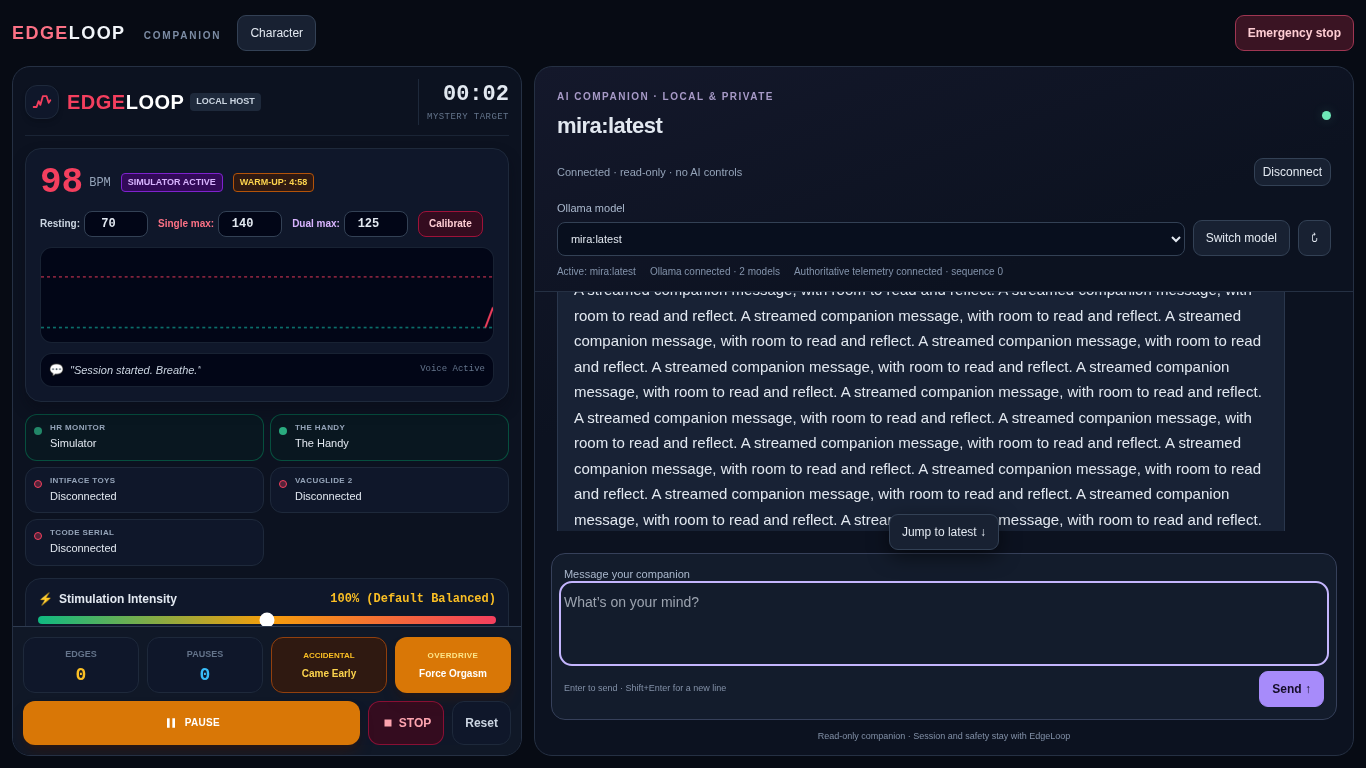
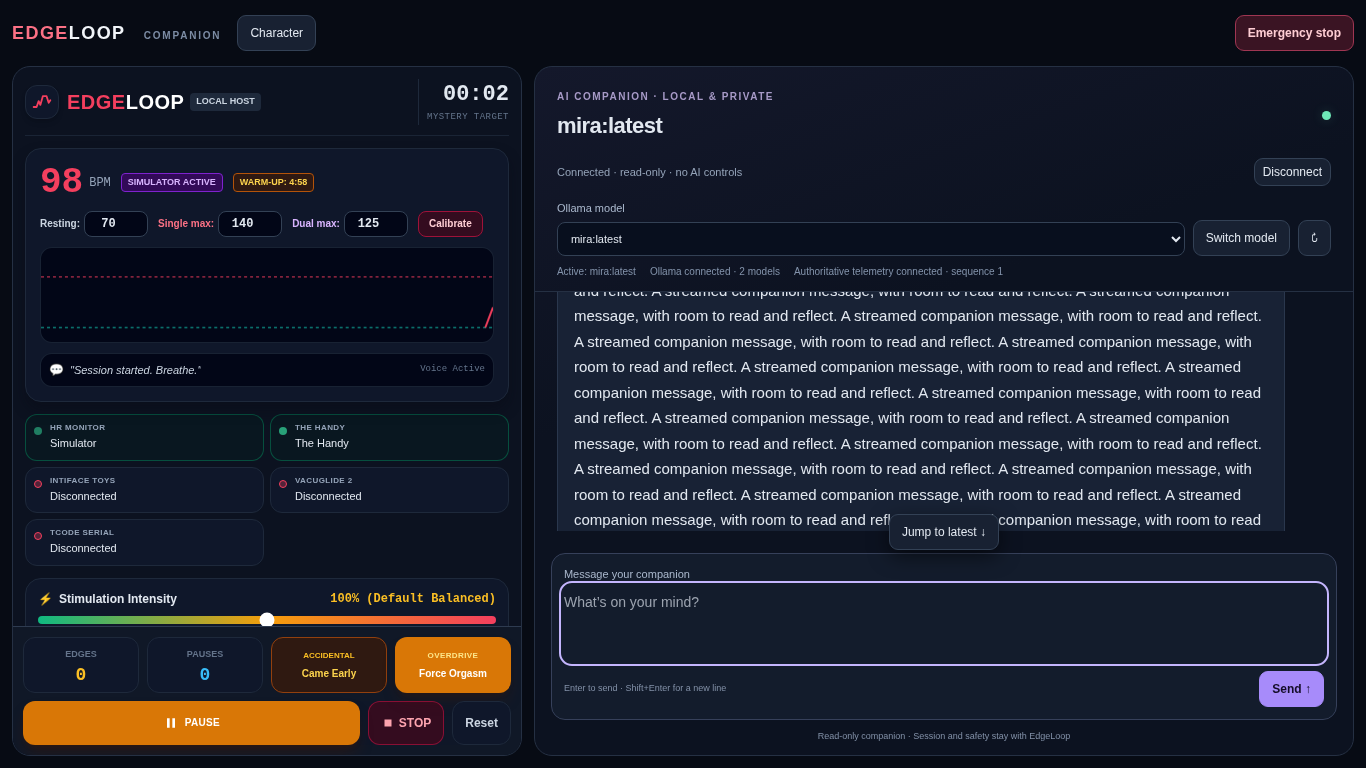
Fix idle AI telemetry heartbeat after live Mira acceptance

Changed region(s): [[0.4305, 0.375, 0.9224, 0.6875]]

diff --git a/src/js/ai/companion.js b/src/js/ai/companion.js
@@ -3,7 +3,7 @@ import {Capture} from './snapshot.js';
 import {ReadOnlyConnection} from './connection.js';
 import {CharacterPresentation} from './character.js';
 import {mountLayout} from './layout.js';
-export function mountCompanion() {
+export function mountCompanion({refreshObservation=()=>{}}={}) {
     const capture=new Capture();
     const panel=document.createElement('section');panel.id='ai-companion';panel.dataset.paired='false';panel.setAttribute('aria-label','AI conversation');
     // Static markup only. Server and model text is always assigned with textContent.
@@ -72,6 +72,8 @@ export function mountCompanion() {
     el('chat').onsubmit=e=>{e.preventDefault();if(!selected||pending)return;
         const text=el('text').value.trim();if(text&&connection.send({version:1,type:'chat',model:selected,text})){follow=true;line('user',text);el('text').value='';error('');busy(true,'Waiting for companion…');}};
     el('text').onkeydown=e=>{if(e.key==='Enter'&&!e.shiftKey&&!e.isComposing){e.preventDefault();el('chat').requestSubmit();}};
-    window.addEventListener('pagehide',()=>connection.disconnect());
+    // Original idle/paused sessions need no engine ticks. Refresh only the read-only projection.
+    const observationTimer=setInterval(()=>{if(connection.epoch){try{refreshObservation();}catch{ /* Optional AI stays isolated. */ }}},1000);
+    window.addEventListener('pagehide',()=>{clearInterval(observationTimer);connection.disconnect();});
     return (state,devices)=>connection.observe(capture.project(state,devices));
 }

diff --git a/src/js/app.js b/src/js/app.js
@@ -5192,16 +5192,20 @@ function renderRemoteHostSettings(data) {
     if (holdInput && data.edgeHoldPercent !== undefined) holdInput.value = data.edgeHoldPercent;
 }
 
-function syncTelemetry() {
+function syncAiObservation(readiness = hardwareReadiness()) {
     if (isRemotePage) return;
-    const readiness = hardwareReadiness();
     // Optional observation only; failure never changes the original control path.
     try {
         aiObservation?.(state, { simulated_hr: state.simEngaged, hr_ready: readiness.hrReady,
             toy_ready: readiness.toyReady, ble: isBleConnected(), handy: handyConnected,
             intiface: isIntifaceConnected(), tcode: isTCodeConnected(), vacuglide: isVacuglideConnected() });
     } catch { /* AI is optional; the original session continues independently. */ }
+}
 
+function syncTelemetry() {
+    if (isRemotePage) return;
+    const readiness = hardwareReadiness();
+    syncAiObservation(readiness);
     broadcastPeerTelemetry({
         type: 'TELEMETRY',
         hr: state.hrCurrent,
@@ -5333,6 +5337,6 @@ if (!isRemotePage) maybeShowFirstRunWizard();
 // F2 extension is loaded independently; backend absence cannot block app boot.
 var aiObservation = null;
 if (!isRemotePage) import('./ai/companion.js').then(({ mountCompanion }) => {
-    aiObservation = mountCompanion();
+    aiObservation = mountCompanion({refreshObservation: syncAiObservation});
     syncTelemetry();
 }).catch(() => {});

diff --git a/src/js/ai/connection.js b/src/js/ai/connection.js
@@ -2,7 +2,7 @@
 // Client sends observations/chat only. Server replies never dispatch controls.
 export class ReadOnlyConnection {
     constructor({WebSocketImpl=globalThis.WebSocket,uuid=()=>crypto.randomUUID(),now=()=>Date.now(),
-        schedule=setTimeout,cancel=clearTimeout,onMessage=()=>{},onStatus=()=>{}}={}) {
+        schedule=(fn,ms)=>setTimeout(fn,ms),cancel=id=>clearTimeout(id),onMessage=()=>{},onStatus=()=>{}}={}) {
         Object.assign(this,{WebSocketImpl,uuid,now,schedule,cancel,onMessage,onStatus});
         this.browserId=uuid();this.enabled=false;this.socket=null;this.epoch=null;this.latest=null;
         this.pendingEvents=new Map();this.lastSent=-Infinity;this.sequence=0;this.retry=0;this.timer=null;this.flushTimer=null;

diff --git a/sw.js b/sw.js
@@ -6,7 +6,7 @@
 // offline once it has been visited. Bump CACHE_VERSION when the precache list
 // changes; old caches are removed on activate.
 
-const CACHE_VERSION = 'edgeloop-f21-v1';
+const CACHE_VERSION = 'edgeloop-f21-v2';
 const PRECACHE = [
     './',
     './index.html',

diff --git a/docs/fork/F2_1_INTERFACE.md b/docs/fork/F2_1_INTERFACE.md
@@ -10,7 +10,11 @@ At widths of at least 1500 CSS pixels, the default columns are 27% / remaining s
 
 At 761–1499 pixels, Session and Chat occupy the available width, and Character toggles a side panel. At 760 pixels and below, buttons select Session, Chat and Character views. Emergency stop and the original prioritised safety/disconnect banner stay available in every view. The banner is moved outside the panels and remains above the tablet artwork overlay. The session control dock and conversation composer stay outside their respective scrolling content. The heart-rate card remains sticky inside the session scroll area. Experience/goal controls, advanced session setup/sharing, output tuning/shortcuts and legal/about links remain accessible in groups. Native browser zoom is enabled.
 
-`src/css/companion.css` is scoped to the companion shell; no transforms/zoom shrink the original dashboard. The only newly reviewed original-source change beyond F2 is an index stylesheet link and viewport accessibility update. The service worker precaches the public UI additions and retains AI/auth exclusions. The immutable upstream pin is unchanged; the reviewed-change manifest now identifies four original-source files, with 81 pinned files unchanged. `app.js` is byte-identical to F2; engine, physiology, patterns, goals, calibration and drivers are byte-identical to the upstream pin.
+`src/css/companion.css` is scoped to the companion shell; no transforms/zoom shrink the original dashboard. The only newly reviewed original-source change beyond F2 is an index stylesheet link and viewport accessibility update. The service worker precaches the public UI additions and retains AI/auth exclusions. The immutable upstream pin is unchanged; the reviewed-change manifest now identifies four original-source files, with 81 pinned files unchanged. `app.js` adds only the optional observation hook/refresher; engine, physiology, patterns, goals, calibration and drivers are byte-identical to the upstream pin.
+
+## Acceptance follow-up: idle observation heartbeat
+
+Live Mira acceptance exposed that original idle/paused sessions do not continuously call `syncTelemetry()`. The observer correctly expired the snapshot after five seconds and cancelled generation. The connection also wraps native browser timer functions, avoiding an illegal receiver when scheduling periodic sends/reconnects. The companion now requests a fresh allowlisted projection every second while authenticated, via a fail-isolated `syncAiObservation` callback. This does not tick the session, send peer telemetry, advance time, invent HR readings or dispatch hardware. Disconnected AI performs no periodic capture. Browser coverage verifies fresh observations through a pause longer than the lease while session seconds remain unchanged.
 
 ## Conversation and pairing
 
@@ -50,10 +54,12 @@ python3 tools/fork_validate.py --tests --report /tmp/edgeloop-f21-upstream.json
 node --test --test-isolation=none tests/fork/bridge.test.mjs tests/fork/presentation.test.mjs
 PYTHONPATH="$PWD:/home/sean/projects/edgeloop-ai" /home/sean/projects/edgeloop-ai/.venv/bin/python -m pytest -q tests/fork
 node tests/fork/browser.mjs
+# With the local services already running and their pairing token:
+EDGELOOP_ACCEPT_TOKEN=... node tests/fork/live-browser.mjs
 ```
 
 The browser suite starts temporary loopback static/observer servers, uses the real observer/Director/memory with mocked Ollama transport, denies native device permission requests and intercepts Handy HTTP. It asserts no hardware request before explicit mock setup. It verifies that every original HTML element ID survives layout mounting, the original warning banner/dismiss listener, mode/goal listeners, Start/Pause/Resume/Stop, fresh telemetry, response streaming/cancel/scroll anchoring, multiline input, model memory isolation, continued session timing with AI disconnected, redacted credentials, compact pairing and portrait fallback.
 
 Viewports: 1920×1080, 2560×1440, 1366×768, 768×1024, 390×844, 360×800 and pairing at 375×667. It checks horizontal overflow, composer visibility and accessible responsive views. Captures are visually inspected. Screenshots and machine report are in [screenshots/f2.1](screenshots/f2.1/); full generated output defaults to `/tmp/edgeloop-f21-browser` (override with `FORK_BROWSER_REPORT`).
 
-Confirmed: 1057 upstream tests (32 files), 16 observer tests, eight JavaScript bridge/presentation tests, 221 preserved AI regression tests and original AI dashboard harness, plus Playwright. The sandbox Python run uses the established selector-polling wrapper; no assertions are skipped. Browser execution uses elevated host permissions for Chromium IPC and local fixtures. Live Ollama response quality and physical hardware operation are not verified. No real hardware was connected. The browser fixture terminates its servers at completion.
+Confirmed: 1057 upstream tests (32 files), 16 observer tests, nine JavaScript bridge/presentation tests, 221 preserved AI regression tests and original AI dashboard harness, plus Playwright. The sandbox Python run uses the established selector-polling wrapper; no assertions are skipped. Browser execution uses elevated host permissions for Chromium IPC and local fixtures. A follow-up real Mira smoke verified streamed dialogue reporting 98 simulated BPM, IDLE and zero elapsed seconds, with idle observations remaining fresh beyond the five-second lease. Broader dialogue quality, live Evelyn replies and physical hardware operation remain unverified. No real hardware was connected. The browser fixture terminates its servers at completion.

diff --git a/docs/fork/VALIDATION.md b/docs/fork/VALIDATION.md
@@ -1,3 +1,7 @@
+## Live acceptance follow-up
+
+The first real-model acceptance exposed stale idle observations and native timer receiver errors. The corrected read-only heartbeat and timer wrappers pass nine JavaScript bridge/presentation tests, 16 observer tests, and the full browser fixture including a pause beyond the telemetry lease without clock advancement. Live Mira correctly streamed 98 simulated BPM, IDLE and zero elapsed seconds after a 6.5-second idle freshness check. See [live evidence](screenshots/f2.1/live-report.json) and `tests/fork/live-browser.mjs`. Broader model quality and real hardware remain unverified.
+
 # F2.1 validation — 2026-10-27
 
 The three-column interface passes the original 1057 tests, 16 observer tests, eight JavaScript bridge/presentation tests 221 preserved AI regression tests, the original AI dashboard harness 221 preserved AI regression tests, the original AI dashboard harness and the expanded Playwright suite. Desktop/tablet/mobile screenshots were visually inspected. See [F2.1 implementation and commands](F2_1_INTERFACE.md) and [browser evidence](screenshots/f2.1/report.json). The previous browser sandbox block was resolved by elevated execution for Chromium and temporary loopback fixtures. Live Ollama quality and physical hardware remain unverified; F3 has not begun.
